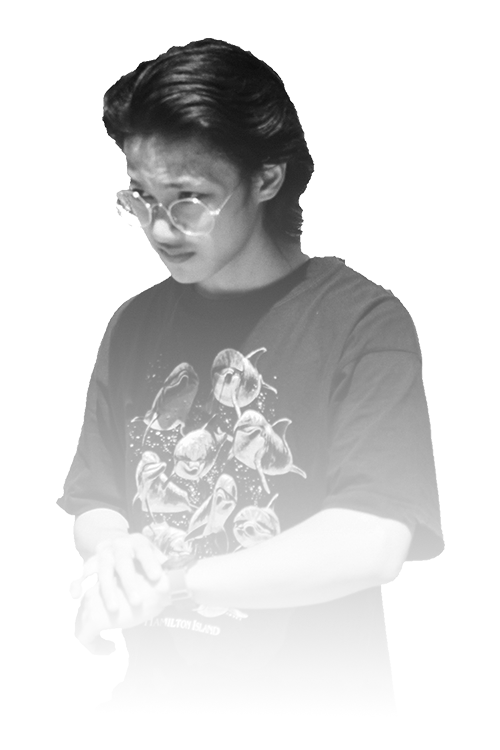
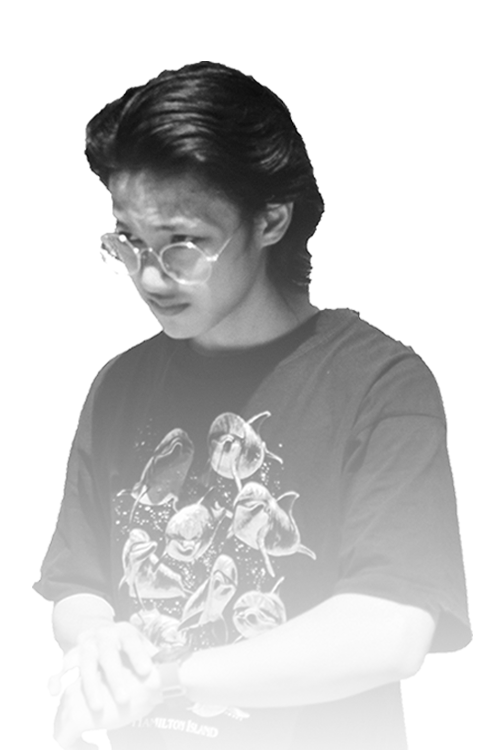
.

diff --git a/index.html b/index.html
@@ -309,7 +309,7 @@
 
                             <div class="team-item text-center">
                                 <div class="team-img">
-                                    <img class="img-fluid" src="assets/img/team/3.png" alt="a">
+                                    <img class="img-fluid" src="assets/img/team/4.png" alt="a">
                                 </div>
                                 <div class="team-text">
                                     <h3>Carl Canceran</h3>
